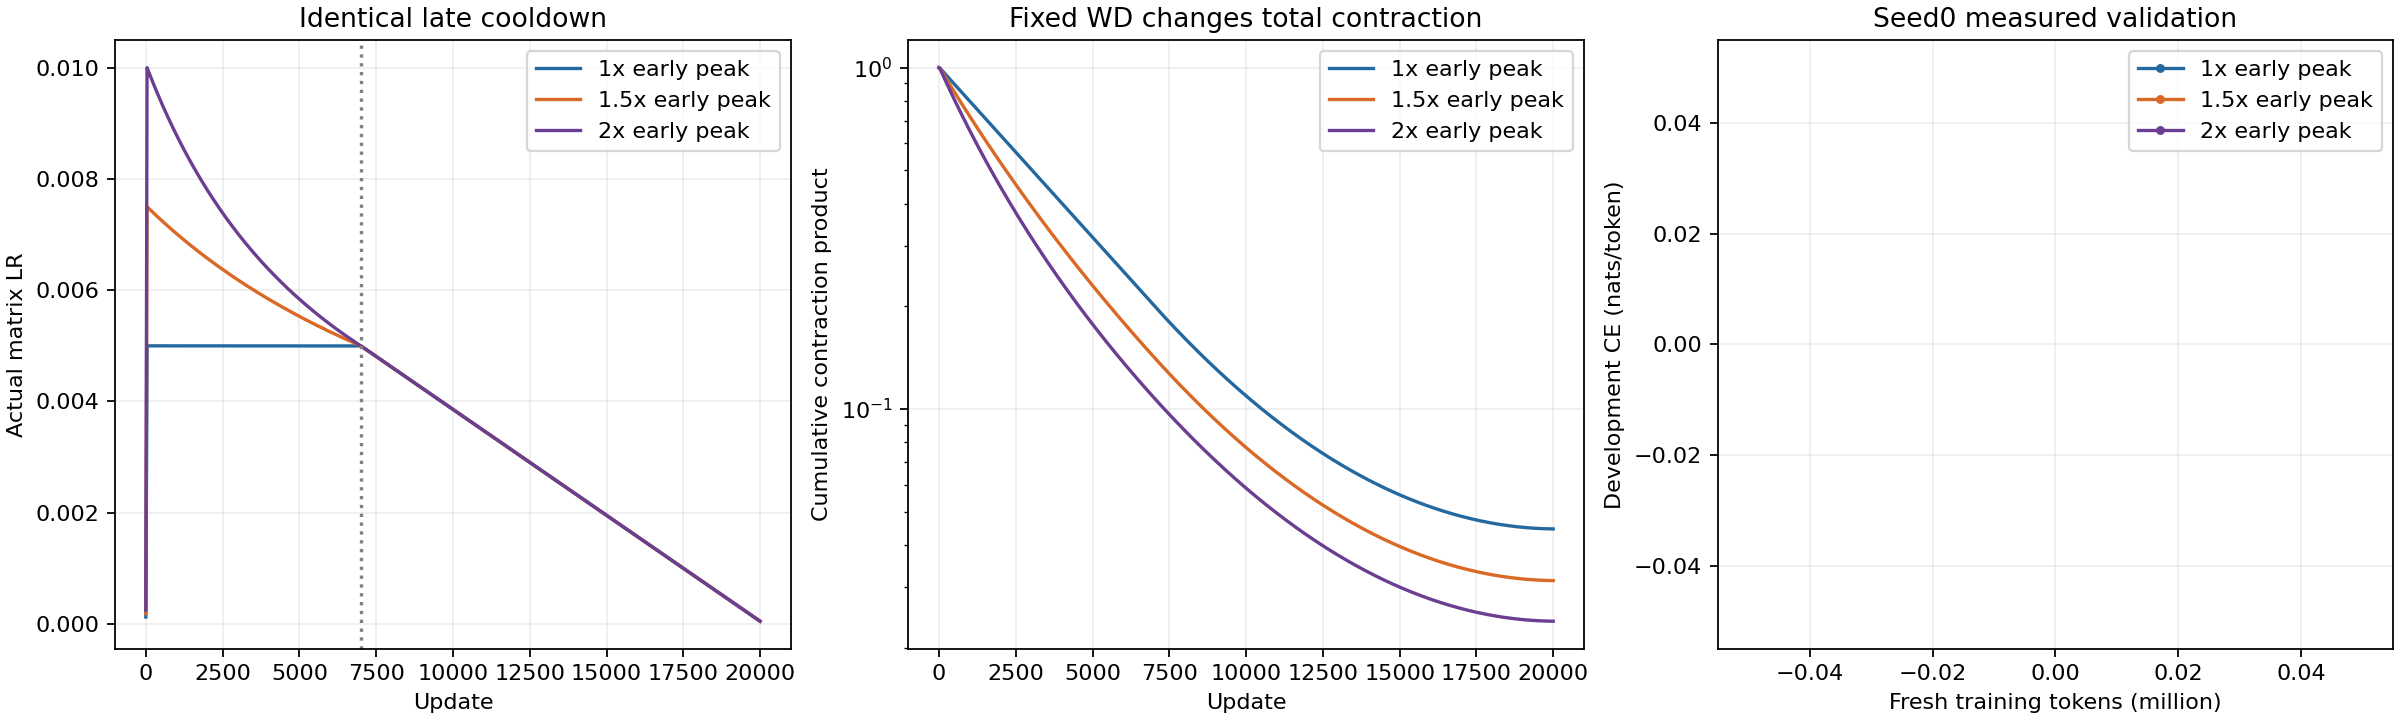
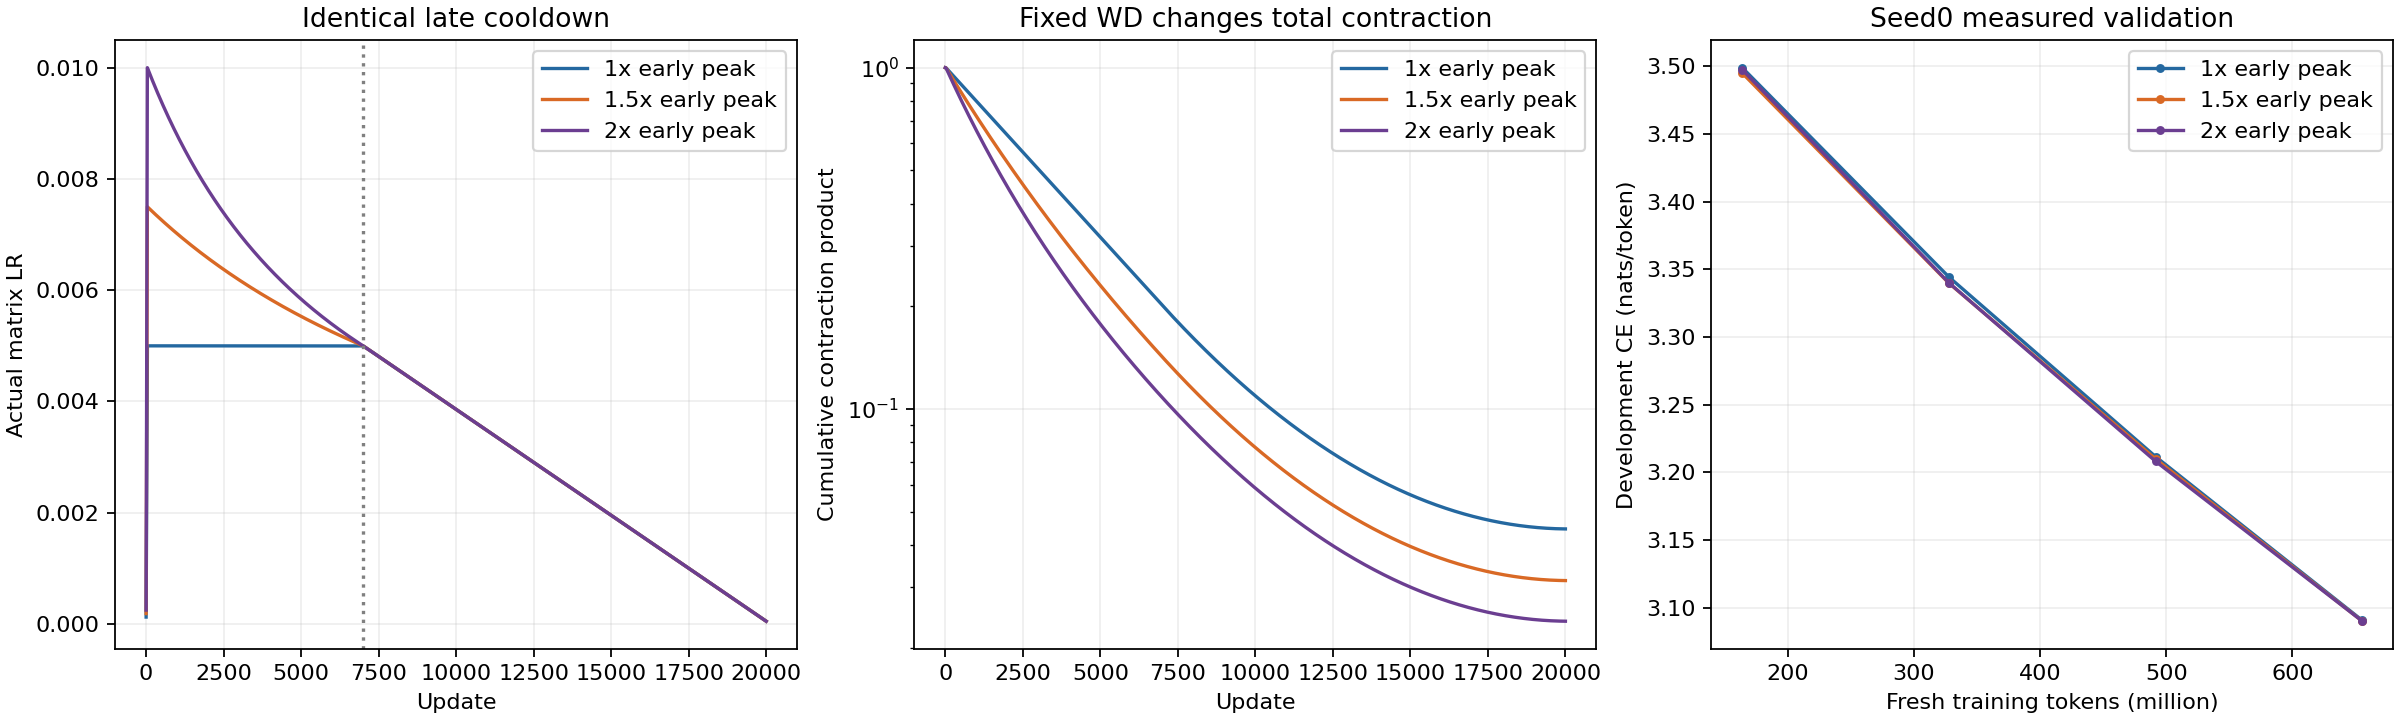
Predeclare bidirectional contraction controls before fresh-seed confirmation

diff --git a/research/unnormalized_muon/early_allocation.py b/research/unnormalized_muon/early_allocation.py
@@ -81,7 +81,7 @@ def report():
         rows=[]
         for seed in [70,71,72]:
             ss={}
-            for arm in ['baseline','early','matched']:
+            for arm in ['baseline','early','matched','neutral']:
                 p=ROOT/f'um-earlyalloc-{kind}-{arm}-s{seed}'/'summary.json'
                 if p.exists():ss[arm]=json.loads(p.read_text())
             if ss:rows.append((seed,ss))
@@ -91,7 +91,7 @@ def report():
                 for arm,s in ss.items():
                     delta=s['heldout']['loss']-ss['baseline']['heldout']['loss'] if 'baseline' in ss else float('nan')
                     lines.append(f'| {seed} | {arm} | {s["heldout"]["loss"]:.9f} | {delta:+.9f} | {s["training_active_seconds"]:.3f} | {s["updates"]} |')
-            for arm in ['early','matched']:
+            for arm in ['early','matched','neutral']:
                 ds=[ss[arm]['heldout']['loss']-ss['baseline']['heldout']['loss'] for seed,ss in rows if arm in ss and 'baseline' in ss]
                 if len(ds)==3:lines+=['',f'{arm} minus baseline: mean **{statistics.mean(ds):+.6f} CE**, sample SD **{statistics.stdev(ds):.6f}**, n=3.']
     lines+=['','## Limits and accounting','',
@@ -131,37 +131,40 @@ def main():
     if score>=baseline['validation']['loss']:
         report();record({},f'Early allocation seed0 screen: no elevated peak beats exact baseline. k1 regression {regression}; retain negative result, inspect curves before any additional hypothesis.');commit('Report early-allocation development screen without a win');return
     wd=matching_wd(log_contraction(rates(k),baseline['config']['fixed_wd']),rates(1.))
-    selection=dict(peak_multiplier=k,tau_updates=6960/(k-1),fixed_wd=baseline['config']['fixed_wd'],matched_baseline_wd=wd,seed0_ce=score,baseline_seed0_ce=baseline['validation']['loss'],regression=regression,frozen_before_heldout=True,confirmation_seeds=[70,71,72],heldout_block=6)
+    neutral_wd=matching_wd(log_contraction(rates(1.),baseline['config']['fixed_wd']),rates(k))
+    selection=dict(neutral_early_wd=neutral_wd,peak_multiplier=k,tau_updates=6960/(k-1),fixed_wd=baseline['config']['fixed_wd'],matched_baseline_wd=wd,seed0_ce=score,baseline_seed0_ce=baseline['validation']['loss'],regression=regression,frozen_before_heldout=True,confirmation_seeds=[70,71,72],heldout_block=6)
     p=D/'EARLY_ALLOCATION_SELECTION.json'
     if p.exists():assert json.loads(p.read_text())==selection
     else:p.write_text(json.dumps(selection,indent=2)+'\n')
     report();commit('Freeze early allocation peak using development only; validate executed LR curves')
-    cfg={'earlyalloc-match-seed0':config(1.,fixed_wd=wd,contraction_control=True)}
+    cfg={'earlyalloc-match-seed0':config(1.,fixed_wd=wd,contraction_control=True),
+         'earlyalloc-neutral-seed0':config(k,fixed_wd=neutral_wd,contraction_control=True)}
     for seed in [70,71,72]:
-        for arm,peak,lam in [('baseline',1.,selection['fixed_wd']),('early',k,selection['fixed_wd']),('matched',1.,wd)]:
+        for arm,peak,lam in [('baseline',1.,selection['fixed_wd']),('early',k,selection['fixed_wd']),('matched',1.,wd),('neutral',k,neutral_wd)]:
             cfg[f'earlyalloc-confirm-{arm}-s{seed}']=config(peak,seed,fixed_wd=lam,heldout=True,heldout_block=6,early_arm=arm)
-    record(cfg,f'Early allocation {k:g}x improves seed0 CE {score:.6f} vs {baseline["validation"]["loss"]:.6f}. Freeze before NEW paired seeds70/71/72/block6. Add baseline schedule with static WD {wd:.12f} matching final contraction exactly. Ten trials inclseed0 matching control, one B300 each, timeout1200s, at most six via central queue; estimated2.2GPUh.')
-    stage('earlyalloc-match-,earlyalloc-confirm-')
+    record(cfg,f'Early allocation {k:g}x improves seed0 CE {score:.6f} vs {baseline["validation"]["loss"]:.6f}. Freeze before NEW paired seeds70/71/72/block6. Add baseline schedule with static WD {wd:.12f} matching final contraction exactly. Fourteen trials including two seed0 contraction controls, one B300 each, timeout1200s, at most six via central queue; estimated3.1GPUh. Both directions of final-contraction matching are predeclared before fresh heldout scores.')
+    stage('earlyalloc-match-,earlyalloc-neutral-,earlyalloc-confirm-')
     for seed in [70,71,72]:
-        ss=[read(f'earlyalloc-confirm-{arm}-s{seed}') for arm in ['baseline','early','matched']]
+        ss=[read(f'earlyalloc-confirm-{arm}-s{seed}') for arm in ['baseline','early','matched','neutral']]
         assert len({s['heldout']['validation_hash'] for s in ss})==1
-        ms=[read_events(ROOT/f'um-earlyalloc-confirm-{arm}-s{seed}'/'metrics.jsonl',{'manifest'})[0] for arm in ['baseline','early','matched']]
+        ms=[read_events(ROOT/f'um-earlyalloc-confirm-{arm}-s{seed}'/'metrics.jsonl',{'manifest'})[0] for arm in ['baseline','early','matched','neutral']]
         assert len({m['initial_parameter_hash'] for m in ms})==1
     report();commit('Report fresh paired early allocation and contraction-control confirmation')
     ds=[read(f'earlyalloc-confirm-early-s{s}')['heldout']['loss']-read(f'earlyalloc-confirm-baseline-s{s}')['heldout']['loss'] for s in [70,71,72]]
-    if not all(d<0 for d in ds):
+    neutral_ds=[read(f'earlyalloc-confirm-neutral-s{s}')['heldout']['loss']-read(f'earlyalloc-confirm-baseline-s{s}')['heldout']['loss'] for s in [70,71,72]]
+    if not (all(d<0 for d in ds) or all(d<0 for d in neutral_ds)):
         record({},f'Early allocation fresh-seed confirmation not consistently better: {ds}. Stop before extra equal-time jobs; inspect complete matched-control evidence.');report();commit('Record early allocation confirmation gate');return
     H=statistics.median(read(f'earlyalloc-confirm-baseline-s{s}')['training_active_seconds'] for s in [70,71,72])
     window=json.loads((ROOT/'work-window.json').read_text())
     import time
-    # Nine fresh runs require two waves. Reserve compilation, evaluation, and cleanup.
+    # Twelve fresh runs require two waves. Reserve compilation, evaluation, and cleanup.
     if time.time()+2*(H+180)>window['deadline_epoch']:
-        record({},f'Consistent paired token win, but insufficient two-hour window for nine independent equal-time reruns at H={H:.3f}s. Do not interpret token-clock curves as equal-time endpoints.');return
+        record({},f'Consistent paired token win, but insufficient two-hour window for twelve independent equal-time reruns at H={H:.3f}s. Do not interpret token-clock curves as equal-time endpoints.');return
     cfg={}
     for seed in [70,71,72]:
-        for arm,peak,lam in [('baseline',1.,selection['fixed_wd']),('early',k,selection['fixed_wd']),('matched',1.,wd)]:
+        for arm,peak,lam in [('baseline',1.,selection['fixed_wd']),('early',k,selection['fixed_wd']),('matched',1.,wd),('neutral',k,neutral_wd)]:
             cfg[f'earlyalloc-time-{arm}-s{seed}']=config(peak,seed,fixed_wd=lam,heldout=True,heldout_block=6,early_arm=arm,time_budget=H,reference_updates=20000,max_updates=200000,runtime_limit=math.ceil(H+300))
-    record(cfg,f'Independent equal-time reruns, all three frozen arms and pairedseeds70/71/72, H={H:.9f}s median baseline confirmations. Matrix, auxiliary and momentum schedules use common active-time clock; actual contraction remeasured. Nine trials, oneB300each, maxsix, limitsH+300s, cost~{9*(H+60)/3600:.2f}GPUh. Outputs um-earlyalloc-time-* .')
+    record(cfg,f'Independent equal-time reruns, all four frozen arms and pairedseeds70/71/72, H={H:.9f}s median baseline confirmations. Matrix, auxiliary and momentum schedules use common active-time clock; actual contraction remeasured. Twelve trials, oneB300each, maxsix, limitsH+300s, cost~{12*(H+60)/3600:.2f}GPUh. Outputs um-earlyalloc-time-* .')
     stage('earlyalloc-time-');report();commit('Report independent equal-time early allocation comparison')
 
 if __name__=='__main__':main()

diff --git a/research/unnormalized_muon/EARLY_ALLOCATION_PROTOCOL.md b/research/unnormalized_muon/EARLY_ALLOCATION_PROTOCOL.md
@@ -39,3 +39,7 @@ No backtracking or extra gradients; these variants differ only in native matrix 
 ```
 
 All nine schedule unit tests pass, including all20001 indices of k1 identity and all late indices for both elevated peaks. No old coupled reciprocal result is treated as evidence against this distinct schedule family.
+
+## Pre-confirmation contraction diagnosis
+
+Seed0 screen endpoints:1x3.090447664,1.5x3.089904308,2x3.089890957; elevated curves are almost tied, and the0.000557 improvement is below the0.000907 drift from the older baseline repeat. No established win. Freeze2x using development CE only, before fresh heldout results. Also test both directions of exact total contraction matching: baseline LR with WD0.05512713564910121 matches raw2x contraction0.023892497;2x with WD0.03827980744972244 matches original baseline contraction0.044527729. These are analytical controls, not a WD grid. New paired seeds70/71/72 compare all four frozen arms; retain small/null results. Baseline and2x fixed-WD remain the primary comparison. A neutral-control gain alone is not evidence for the original fixed-WD proposal. Equal-time reruns follow only if either early arm improves all3fresh paired seeds; this is a pilot promotion rule, not a significance test.
